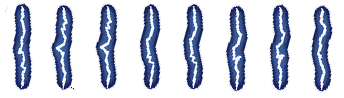
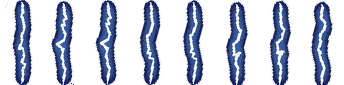
LightingBolt

diff --git a/Engin_Source/CTransform.h b/Engin_Source/CTransform.h
@@ -19,11 +19,11 @@ public:
 	void SetParent(Transform* parent) { mParent = parent; }
 	Transform* GetParent() { return mParent; }
 
-	Vector3 GetPosition() { return mPosition; }
-	Vector3 GetOffset() { return mOffset; }
-	Vector3 GetRotation() { return mRotation; }
-	Vector3 GetScale() { return mScale; }
-	Vector3 GetSize() { return mSize; }
+	Vector3 GetPosition() const { return mPosition; }
+	Vector3 GetOffset() const { return mOffset; }
+	Vector3 GetRotation() const { return mRotation; }
+	Vector3 GetScale() const { return mScale; }
+	Vector3 GetSize() const { return mSize; }
 
 	void SetPosition(Vector3 position) { mPosition = position; }
 	void SetPosition(float x, float y, float z) { mPosition = Vector3(x, y, z); }

diff --git a/Engin_Source/CMinoMonsterScript.cpp b/Engin_Source/CMinoMonsterScript.cpp
@@ -162,14 +162,13 @@ void MinoMonsterScript::FixedUpdate()
 			return;
 		}
 
-		pos += Vec * Time::GetInstance()->DeltaTime() * 250.f;
+		//pos += Vec * Time::GetInstance()->DeltaTime() * 250.f;
 		tr->SetPosition(pos);
 	}
 }
 
 void MinoMonsterScript::Render()
 {
-
 }
 
 float MinoMonsterScript::GetAngle(Vector2& direction)

diff --git a/Engin_Source/CLightBolt.h b/Engin_Source/CLightBolt.h
@@ -22,8 +22,9 @@ public:
 	void LinghtingRun();
 	void LightningEnd();
 private:
-	std::set<GameObject*> mAriiveList;
+	std::set<GameObject*> mArriveList;
 	GameObject* mCurObject;
+	GameObject* mNextObject;
 
 	float mDriectionTime;
 	float mRadius;
